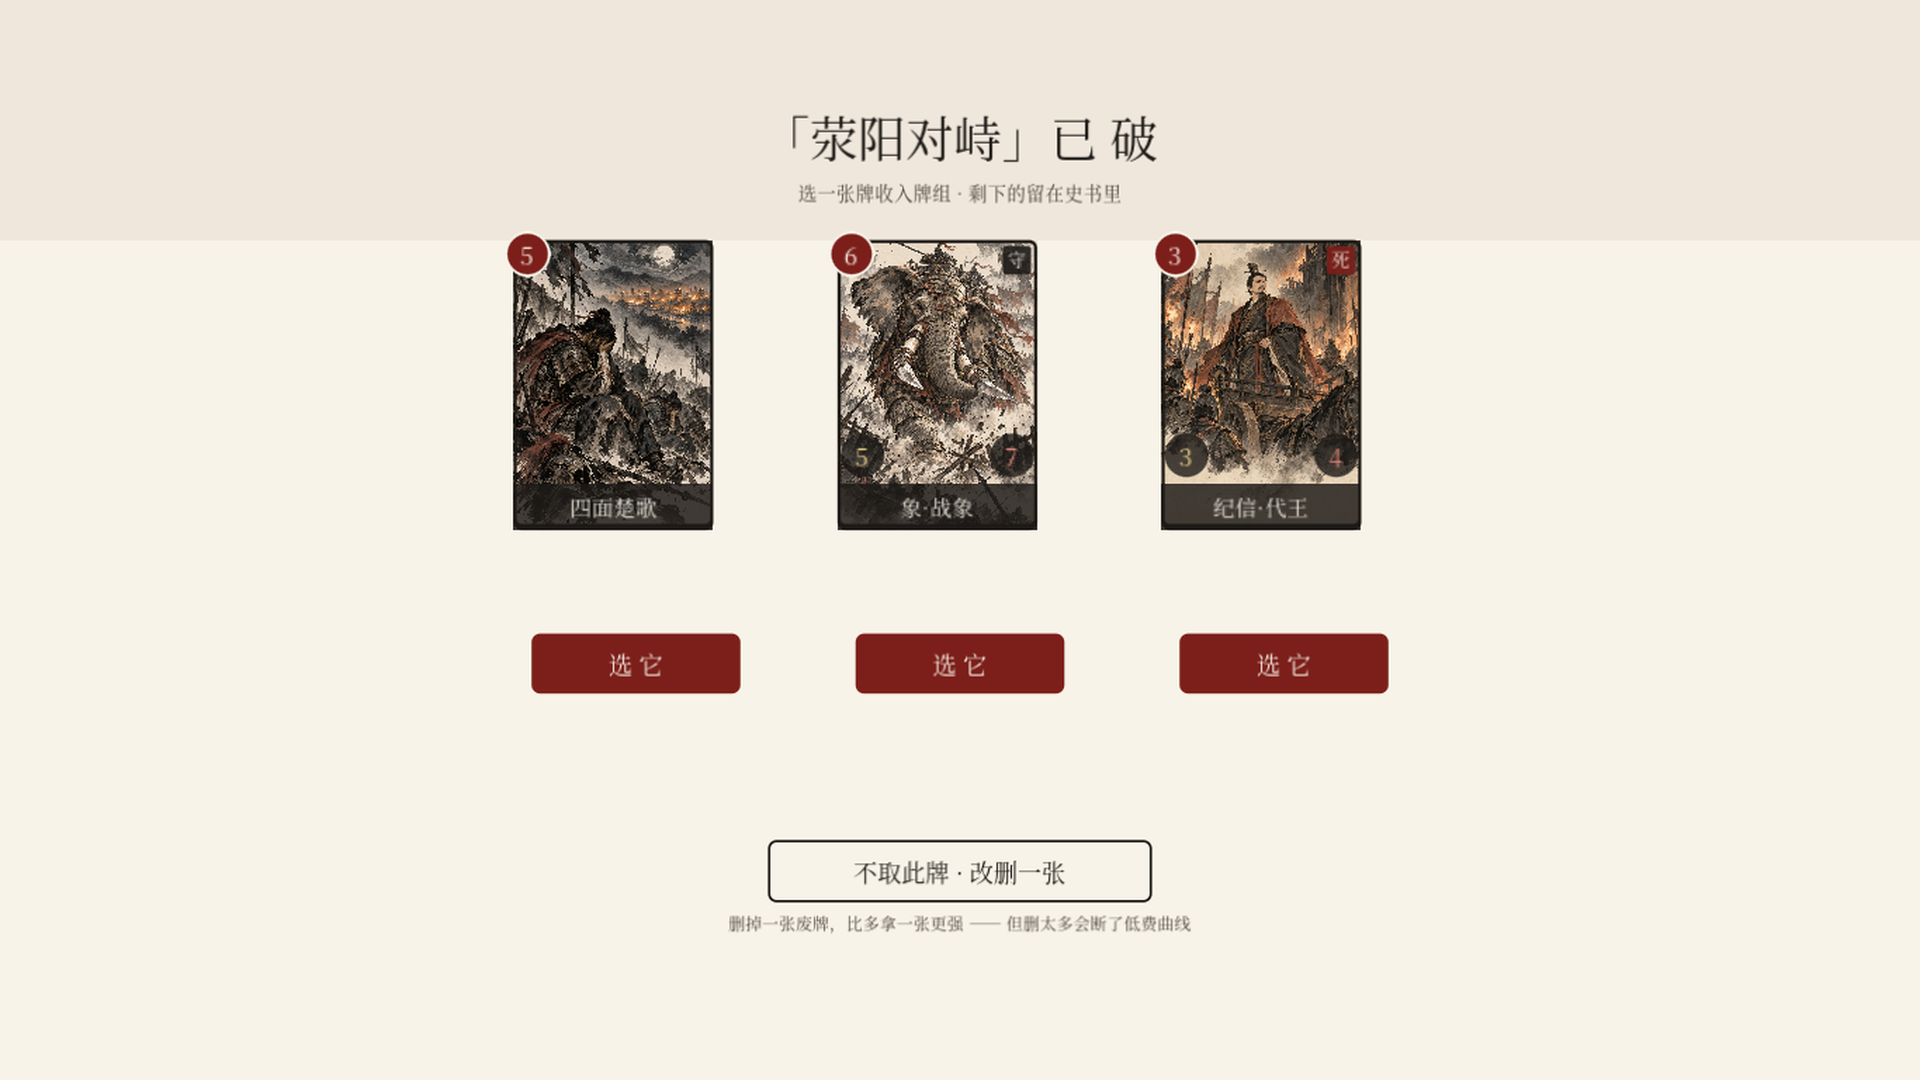
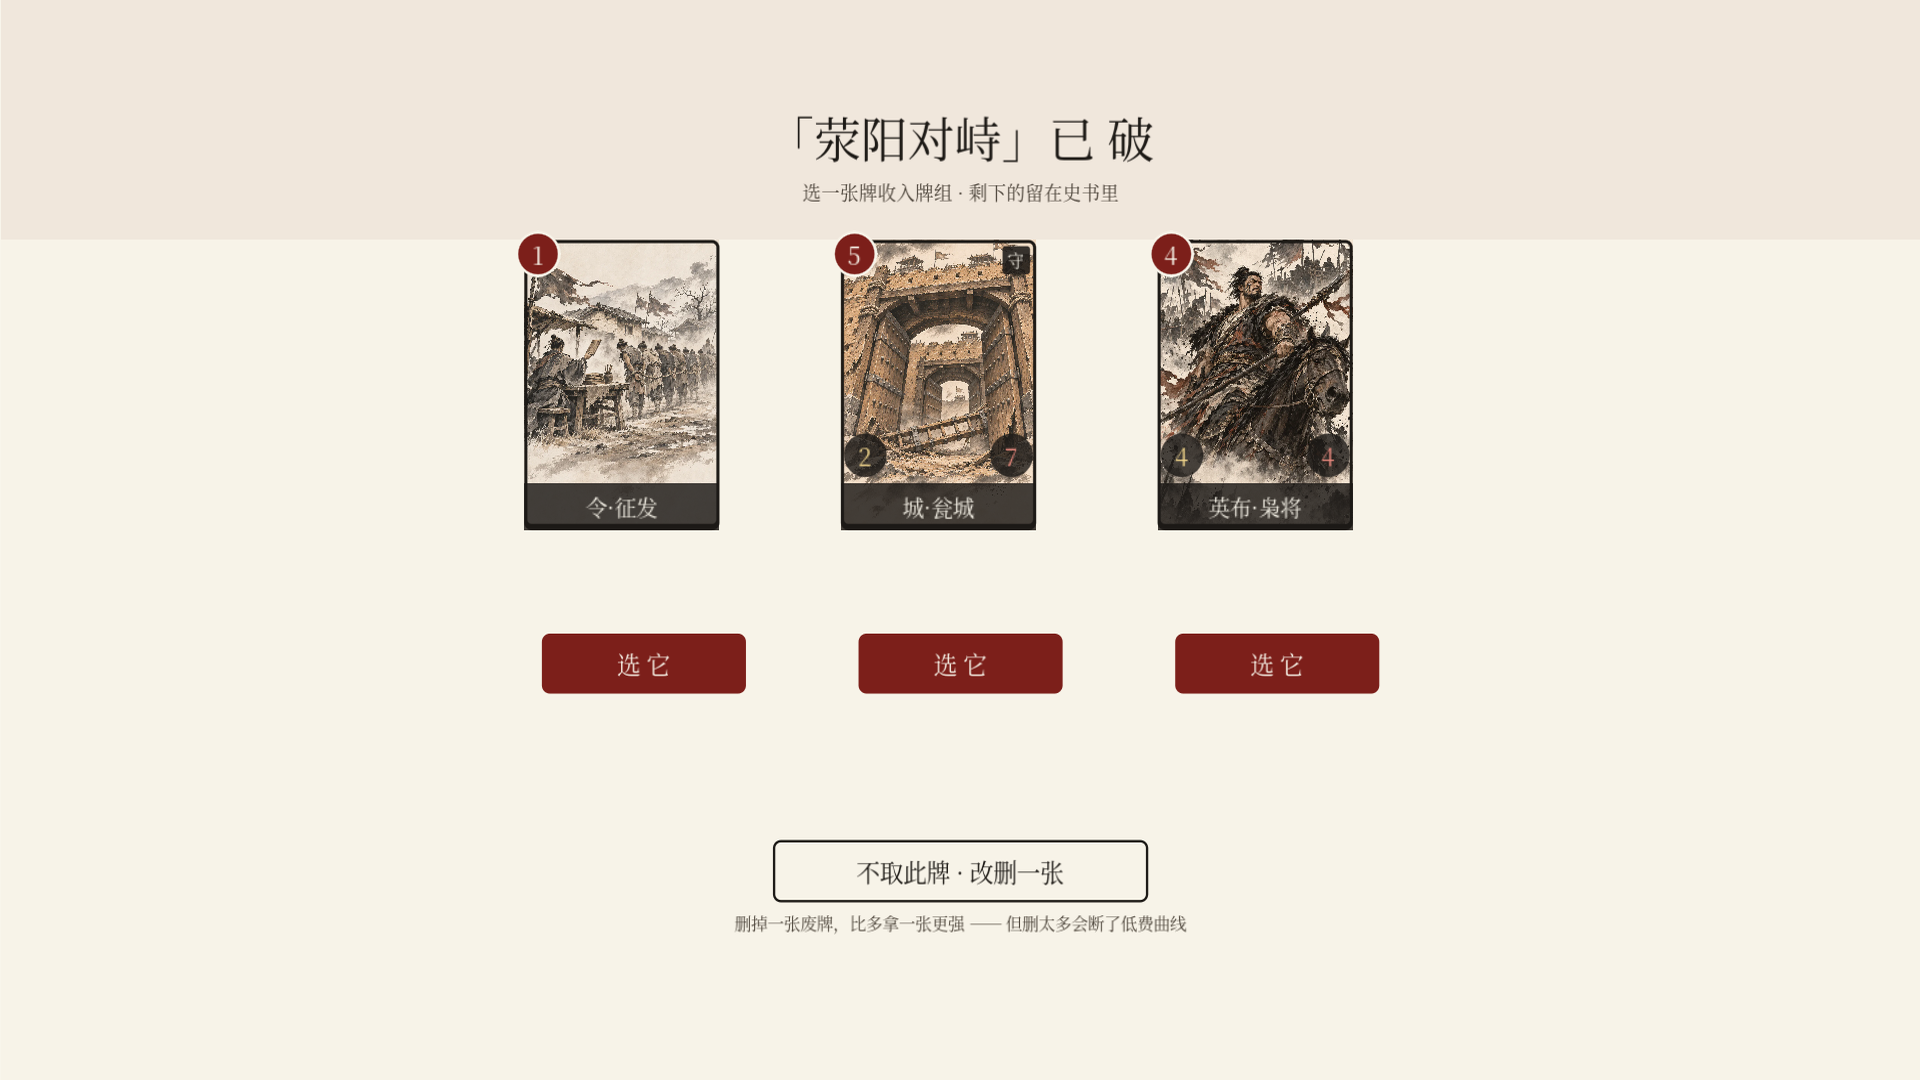
feat(steam): 商店截图改用原生 1920 宽，首图换成「打到一半」的战斗
三个问题一起修：
1. 六张截图原来是 1366×768（巡览没带 --resolution），再放大 1.4× 到 1920 —— 明显发虚。
   重跑 `--resolution 1920x1080` 后原生 1920×1055，只做 +2.4% 纵向归一。
2. 巡览拍战斗是开局瞬间、盘面全空，作为商店首图看不出这是卡牌对战。
   新增 tests/battle_shot_peek.gd：走战役第四关，用 Ai.next_action 双方对下 5 回合，
   停在我方回合再拍（中英两版）。
3. README 写清了「--resolution 不能省」和 01 的特殊来源。

回归：scene_smoke 54 / battle_ui 117 / fonts 2 全绿。

diff --git a/tools/make-steam-art.py b/tools/make-steam-art.py
@@ -315,7 +315,9 @@ def make_screenshots():
     sdir = os.path.join(OUT, "screenshots")
     os.makedirs(sdir, exist_ok=True)
     picks = [
-        ("_gd-battle-campaign.png", "01-battle.png"),
+        # 首图必须有兵：巡览里的 battle 是开局瞬间、盘面全空，改用 battle_shot_peek 拍的第 5 回合
+        ("_gd-battle-mid.png", "01-battle.png"),
+        ("_gd-battle-mid-en.png", "01-battle-en.png"),
         ("_gd-map.png", "02-campaign-map.png"),
         ("_gd-reward.png", "03-reward.png"),
         ("_gd-advisor.png", "04-advisor.png"),

diff --git a/store/steam/README.md b/store/steam/README.md
@@ -12,7 +12,7 @@ _art/no-title/    交付包已按目标尺寸整理好的无字图
 _art/manifest.json 每张图的尺寸/处理方式/校验值（交付包原样）
 _preview-sheet.jpg 一页看完全部胶囊（验收用）
 _preview-library-hero.jpg  库英雄图 + Logo 合成预览（验收「左侧留空」）
-screenshots/      商店截图 6 张 1920×1080
+screenshots/      商店截图 6 张 1920×1080（01 另有英文版）
 ```
 
 ## 已出（可直接上传的尺寸）
@@ -31,7 +31,7 @@ screenshots/      商店截图 6 张 1920×1080
 | `page-background-1438x810.png` | 1438×810 | 商店页背景（无字） | 可用 |
 | `video-cover-1920x1080.png` | 1920×1080 | 宣传片首帧 | 可用 |
 | `app-icon-184x184.png` | 184×184 | 应用图标 | 可用 |
-| `screenshots/01~06-*.png` | 1920×1080 | 商店截图 6 张 | 可用 |
+| `screenshots/01~06-*.png` | 1920×1080 | 商店截图 6 张（`01-battle-en.png` 为英文版） | 可用 |
 
 英文版：同名加 `-en`（`capsule-main-1232x706-en.png` / `library-logo-en-1280x720.png` 等），
 给 Steam 按语言分流用。英文标题 `CHU–HAN` / `BATTLE FOR THE THRONE`，与游戏内文案一致。
@@ -64,10 +64,22 @@ screenshots/      商店截图 6 张 1920×1080
 # 只重排文字/换尺寸（底图在 _art/ 里，不需要重新生图）
 python tools/make-steam-art.py
 
-# 截图要真机渲染，非 headless
+# 截图要真机渲染，非 headless；--resolution 不能省
 env -u ELECTRON_RUN_AS_NODE "D:/godot/Godot_v4.7.2-stable_win64.exe" \
   --path godot --resolution 1920x1080 -- --tour
+# 01-battle 不走巡览：巡览那一刻是开局、盘面全空，看不出这是卡牌对战。
+# 这张由 AI 双方对下 5 回合后拍，同时出中英两版。
+env -u ELECTRON_RUN_AS_NODE "D:/godot/Godot_v4.7.2-stable_win64.exe" \
+  --path godot --resolution 1920x1080 --script res://tests/battle_shot_peek.gd
 ```
+
+## 截图说明
+
+巡览渲出的是 1920×1055（窗口被任务栏挤掉 25px），统一 LANCZOS 放大到 1920×1080
+（纵向 +2.4%，无可见形变）。**必须带 `--resolution 1920x1080`**，否则按默认窗口 1366×768
+出图、再放大 1.4×，明显发虚（第一版就是这样）。
+
+选图顺序（商店页第一屏 4 张最重要）：战斗 → 战役地图 → 奖励三选一 → 军师三选一 → 事件 → 图鉴。
 
 ## 设计约束（改图时别踩）
 
